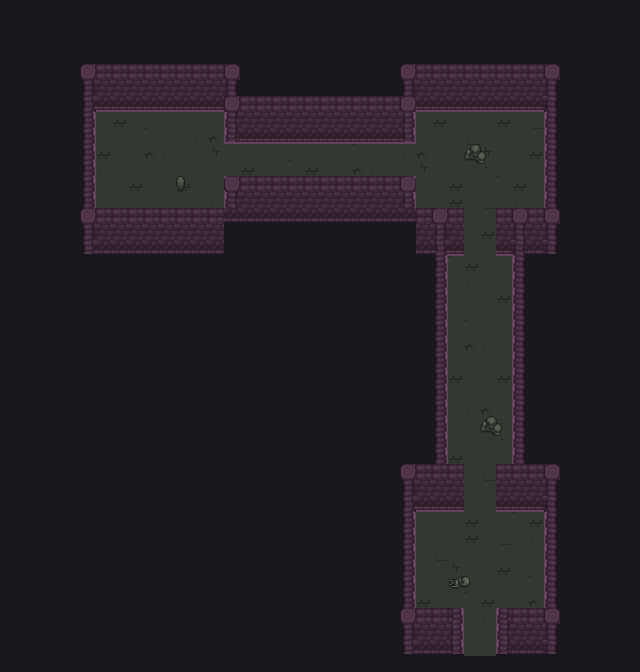
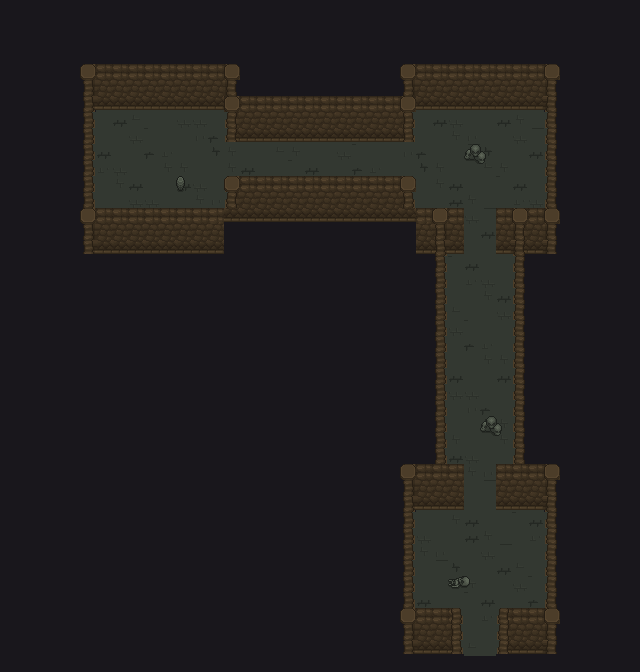
Fix Mountain Passage wall outlines and replace purple masonry
Keep the native floor padding around wall tiles in the floor palette, including padding outside the walkable mask. Rebuild all twenty backdrops with dark bronze masonry and matching doors and fittings. Preserve green torches and flames, align the runtime floor fill, and refresh artwork cache versions.

Changed region(s): [[0.125, 0.0938, 0.875, 1.0]]

diff --git a/js/mountain-passage.js b/js/mountain-passage.js
@@ -1,15 +1,15 @@
-window.EMBER_ASSETS.DOCK_ORIGINAL_ASSETS.push(...[{"name":"passage_torch","w":32,"h":48,"frames":6,"src":"assets/interiors/mountain-passage/passage-torch.png?v=20260924-passage1"},{"name":"passage_door","w":32,"h":48,"frames":4,"src":"assets/interiors/mountain-passage/passage-door.png?v=20260924-passage1"},{"name":"passage_bars","w":32,"h":48,"frames":4,"src":"assets/interiors/mountain-passage/passage-bars.png?v=20260924-passage1"},{"name":"passage_vent","w":16,"h":16,"frames":1,"src":"assets/interiors/mountain-passage/passage-vent.png?v=20260924-passage1"},{"name":"passage_flame_r","w":112,"h":32,"frames":9,"src":"assets/interiors/mountain-passage/passage-flame_r.png?v=20260924-passage1"},{"name":"passage_saw","w":32,"h":32,"frames":6,"src":"assets/interiors/mountain-passage/passage-saw.png?v=20260924-passage1"},{"name":"passage_rail","w":92,"h":3,"frames":1,"src":"assets/interiors/mountain-passage/passage-rail.png?v=20260924-passage1"}]);
+window.EMBER_ASSETS.DOCK_ORIGINAL_ASSETS.push(...[{"name":"passage_torch","w":32,"h":48,"frames":6,"src":"assets/interiors/mountain-passage/passage-torch.png?v=20260924-passage2"},{"name":"passage_door","w":32,"h":48,"frames":4,"src":"assets/interiors/mountain-passage/passage-door.png?v=20260924-passage2"},{"name":"passage_bars","w":32,"h":48,"frames":4,"src":"assets/interiors/mountain-passage/passage-bars.png?v=20260924-passage2"},{"name":"passage_vent","w":16,"h":16,"frames":1,"src":"assets/interiors/mountain-passage/passage-vent.png?v=20260924-passage2"},{"name":"passage_flame_r","w":112,"h":32,"frames":9,"src":"assets/interiors/mountain-passage/passage-flame_r.png?v=20260924-passage2"},{"name":"passage_saw","w":32,"h":32,"frames":6,"src":"assets/interiors/mountain-passage/passage-saw.png?v=20260924-passage2"},{"name":"passage_rail","w":92,"h":3,"frames":1,"src":"assets/interiors/mountain-passage/passage-rail.png?v=20260924-passage2"}]);
 /* Mountain Passage: one through-route, nine optional branches and the original Ashfiend. */
 async function prepareExpandedMountainPassage(){
   if(W.maps.passage.mountainPassage)return;
-  const response=await fetch('assets/interiors/mountain-passage/layout.json?v=20260924-passage1');
+  const response=await fetch('assets/interiors/mountain-passage/layout.json?v=20260924-passage2');
   if(!response.ok)throw Error('Mountain passage layout could not load');
   const plans=await response.json();
   const frostExit=W.maps.passage.doors.find(d=>d.to==='world');
   const ashExit=W.maps.passage3.doors.find(d=>d.to==='world');
   const bossKind=W.maps.passage3.foes[0].k;
   const images=await Promise.all(Object.keys(plans).map(async id=>{
-    const image=new Image();image.src='assets/interiors/mountain-passage/'+id+'.png?v=20260924-passage1';
+    const image=new Image();image.src='assets/interiors/mountain-passage/'+id+'.png?v=20260924-passage2';
     await image.decode();return [id,image];
   }));
   for(const [id,image] of images){
@@ -18,7 +18,7 @@ async function prepareExpandedMountainPassage(){
       mountainPassage:true,templeExpanded:true,templeDragon:true,templeScience:true,
       templePlan:plan,templeFloors:plan.floors.map(r=>r.slice()),templeGateOpen:0,
       travel:id==='passage',travel_kind:'Cave',roomArt:'dragon75_interior',_roomBaseCanvas:image,
-      bg:'#19171c',floorbg:'#343933',terr:terrRLE(Array(width*height/256).fill(DIRT)),
+      bg:'#19171c',floorbg:'#333831',terr:terrRLE(Array(width*height/256).fill(DIRT)),
       objs:[],scatter:[],sanim:[],fsanim:[],fobjs:[],features:[],hidden:[],regions:[],places:[],npcs:[],
       roomActors:[],roomBlocks:[],doors:[],foes:[],collisionOverrides:{},templeClock:0,
       templeHazards:[],templeMachines:[],templeShots:[]};

diff --git a/index.html b/index.html
@@ -330,7 +330,7 @@ window.addEventListener("unhandledrejection", function (e) {
 <script src="js/generated/media-7.js?v=1790049472"></script>
 <script src="js/first-temple.js?v=20260924-passage1"></script>
 <script src="js/sandspire-temple.js?v=20260924-passage1"></script>
-<script src="js/mountain-passage.js?v=20260924-passage1"></script>
+<script src="js/mountain-passage.js?v=20260924-passage2"></script>
 <script src="js/hollybeck-temple.js?v=20260924-passage1"></script>
 <script src="js/fishing.js?v=20260923-fishing-render3"></script>
 <script src="js/house-loot.js?v=20260924-heartstone-fix1"></script>

diff --git a/tools/build-mountain-passage.py b/tools/build-mountain-passage.py
@@ -99,17 +99,18 @@ def asset(name):
  return a,Image.open(io.BytesIO(base64.b64decode(a['src'].split(',')[1]))).convert('RGBA')
 def tint(image,flame=False):
  out=image.copy();data=[]
- for r,g,b,a in out.getdata():
+ for r,g,b,a in out.get_flattened_data():
   if not a:data.append((r,g,b,a));continue
   light=(r*54+g*183+b*19)/256
   if flame:rgb=(round(light*.64+14),round(light*.95+15),round(light*.54+16))
-  else:rgb=(round(light*.9+18),round(light*.62+9),round(light*.88+13))
+  elif (r,g,b)==(83,93,111):rgb=(round(light*.48+7),round(light*.52+8),round(light*.44+8))
+  else:rgb=(round(light*.88+16),round(light*.72+12),round(light*.48+8))
   data.append(tuple(min(255,max(0,v)) for v in rgb)+(a,))
  out.putdata(data);return out
 specs=[]
 for name,source,flame in [('torch','torch77_sn1',True),('door','dragon77_door',False),('bars','dragon77_bars',False),
                          ('vent','flame78_vent',False),('flame_r','dragon75_flame_r',True),('saw','dragon75_saw',False),('rail','dragon75_rail',False)]:
  a,im=asset(source);file='passage-'+name+'.png';tint(im,flame).save(OUT/file)
- specs.append(dict(name='passage_'+name,w=a['w'],h=a['h'],frames=a['frames'],src='assets/interiors/mountain-passage/'+file+'?v=20260924-passage1'))
+ specs.append(dict(name='passage_'+name,w=a['w'],h=a['h'],frames=a['frames'],src='assets/interiors/mountain-passage/'+file+'?v=20260924-passage2'))
 (OUT/'sprites.json').write_text(json.dumps(specs,indent=2)+'\n')
 print(f'{len(plans)} sections, 89 rooms, {area(plans)} floor tiles (exactly Hollybeck), {count} chests, one original Ashfiend.')

diff --git a/tools/build-first-temple.py b/tools/build-first-temple.py
@@ -167,8 +167,10 @@ for id,m in layout.items():
    for px in range(w):
     r,g,b,a=im.getpixel((px,py));light=(r*54+g*183+b*19)/256
     if (r,g,b,a) in VOID:color=(25,23,28,a)
-    elif (px//16*16,py//16*16) in floor:color=(round(light*.48+7),round(light*.52+8),round(light*.44+8),a)
-    else:color=(min(255,round(light*.9+18)),min(255,round(light*.62+9)),min(255,round(light*.88+13)),a)
+    # Native floor padding extends a few pixels outside the walkable mask.
+    # Give that apron the floor tint too, so no solid outline surrounds walls.
+    elif (r,g,b,a) in APRON or (px//16*16,py//16*16) in floor:color=(round(light*.48+7),round(light*.52+8),round(light*.44+8),a)
+    else:color=(min(255,round(light*.88+16)),min(255,round(light*.72+12)),min(255,round(light*.48+8)),a)
     pixels.append(color)
   im.putdata(pixels)
  im.save(temporary)
